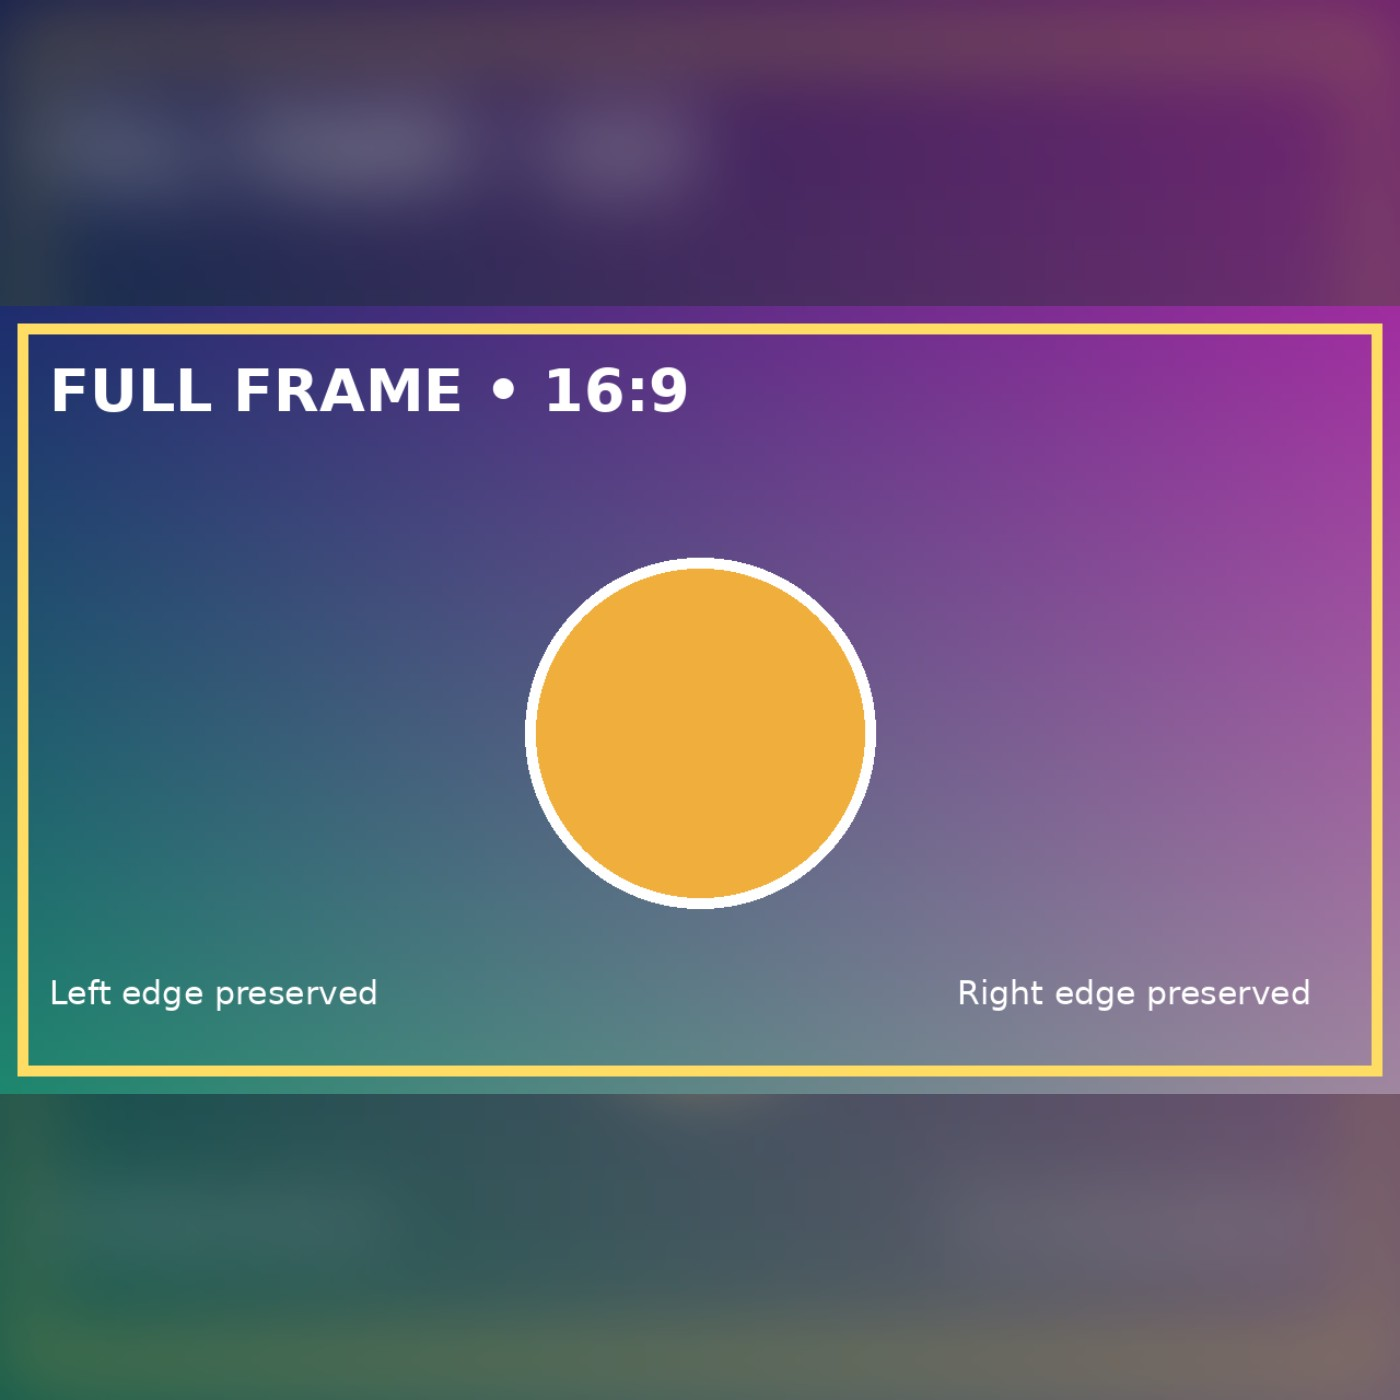
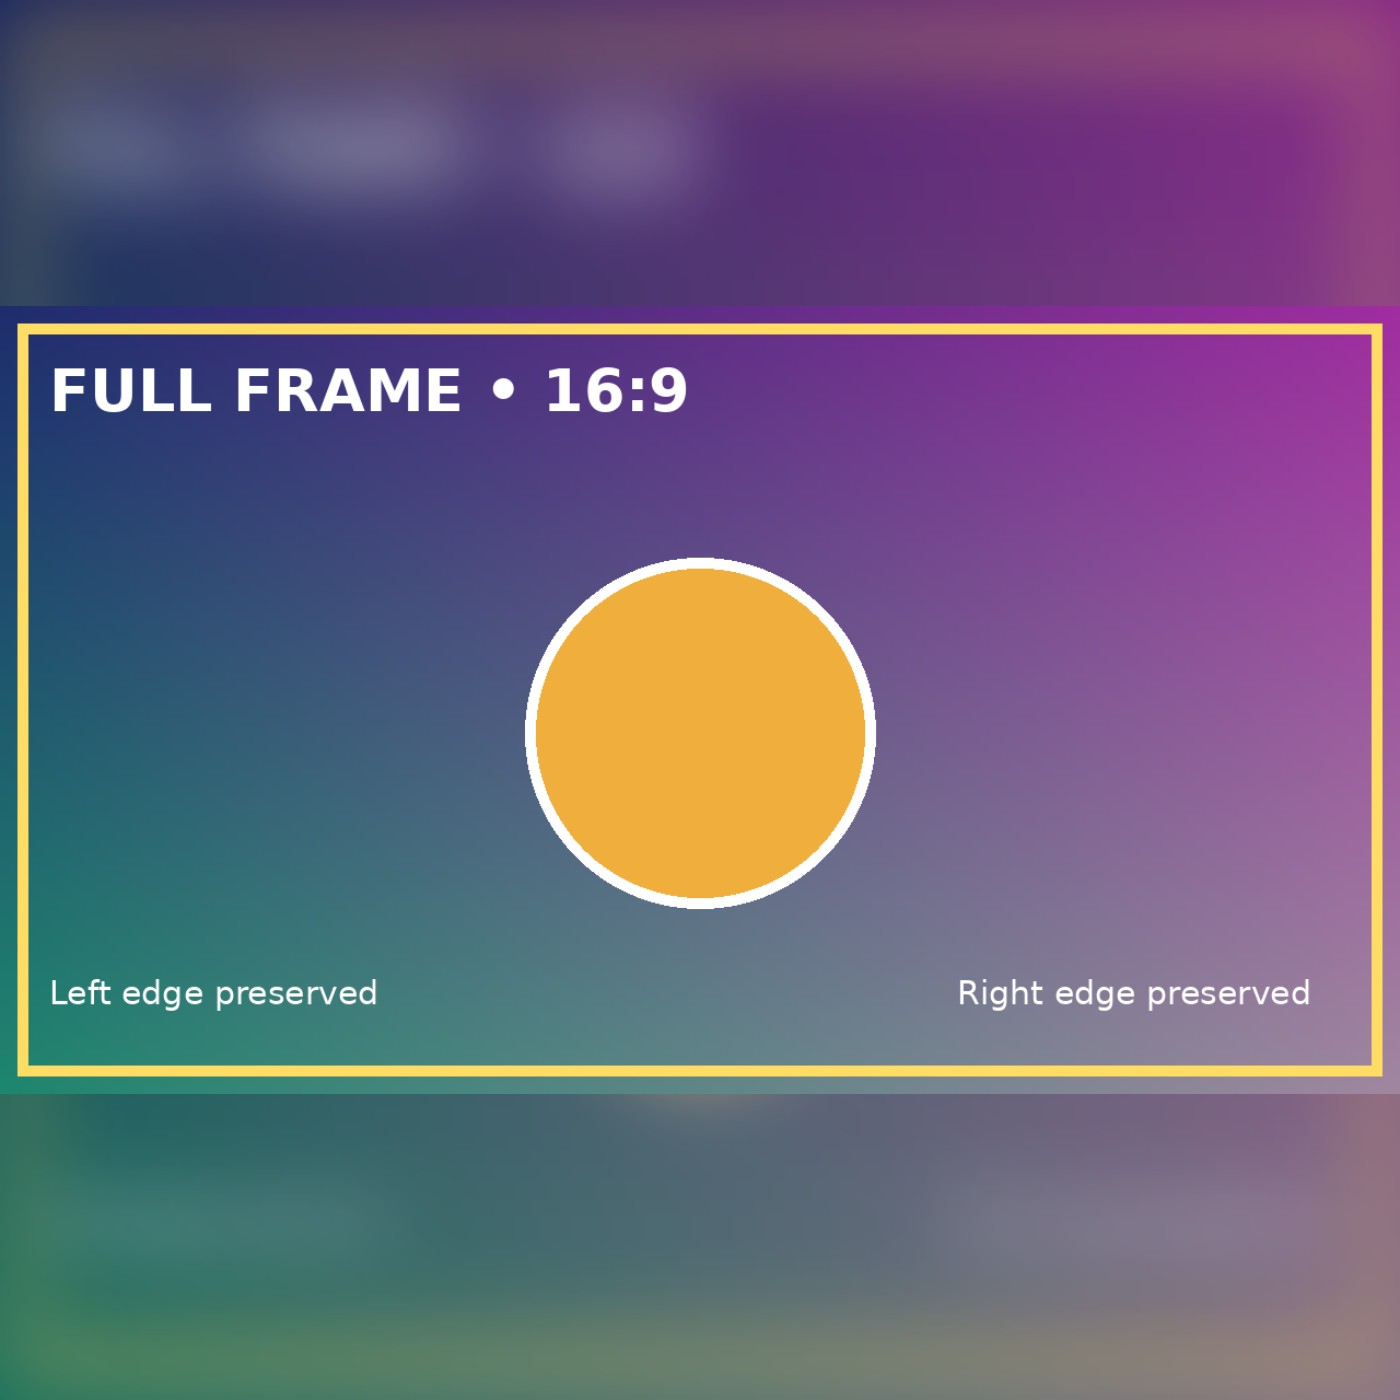
Reduce artwork dimming and prepare beta release
Use a 15% background overlay and a new artwork cache version. Publish prerelease archives and versioned fork images without replacing stable latest.

diff --git a/pkg/artwork/artwork_test.go b/pkg/artwork/artwork_test.go
@@ -90,7 +90,7 @@ func TestTransparentInputBecomesOpaqueJPEG(t *testing.T) {
 	require.NoError(t, err)
 	assert.Equal(t, "jpeg", format)
 	r, g, b, a := img.At(700, 700).RGBA()
-	assert.InDelta(t, 173*257, r, 1000)
+	assert.InDelta(t, 182*257, r, 1000)
 	assert.Less(t, g, uint32(1000))
 	assert.Less(t, b, uint32(1000))
 	assert.Equal(t, uint32(65535), a)
@@ -189,9 +189,9 @@ func TestSquareBlurredBackgroundHasNoBlackBorder(t *testing.T) {
 	require.NoError(t, err)
 	for _, p := range []image.Point{{X: 0, Y: 0}, {X: 1399, Y: 0}, {X: 0, Y: 1399}, {X: 1399, Y: 1399}} {
 		r, g, b, a := img.At(p.X, p.Y).RGBA()
-		assert.InDelta(t, 140*257, r, 1000)
-		assert.InDelta(t, 70*257, g, 1000)
-		assert.InDelta(t, 35*257, b, 1000)
+		assert.InDelta(t, 170*257, r, 1000)
+		assert.InDelta(t, 85*257, g, 1000)
+		assert.InDelta(t, 43*257, b, 1000)
 		assert.Equal(t, uint32(65535), a)
 	}
 }
@@ -215,9 +215,9 @@ func TestBackgroundDarkeningLeavesForegroundUnchanged(t *testing.T) {
 	for _, p := range []image.Point{{X: 100, Y: 100}, {X: 700, Y: 1300}} {
 		r0, g0, b0, _ := a.At(p.X, p.Y).RGBA()
 		r1, g1, b1, alpha := b.At(p.X, p.Y).RGBA()
-		assert.InDelta(t, float64(r0)*0.7, r1, 1000)
-		assert.InDelta(t, float64(g0)*0.7, g1, 1000)
-		assert.InDelta(t, float64(b0)*0.7, b1, 1000)
+		assert.InDelta(t, float64(r0)*0.85, r1, 1000)
+		assert.InDelta(t, float64(g0)*0.85, g1, 1000)
+		assert.InDelta(t, float64(b0)*0.85, b1, 1000)
 		assert.Equal(t, uint32(65535), alpha)
 	}
 	for _, p := range []image.Point{{X: 100, Y: 400}, {X: 700, Y: 700}, {X: 1300, Y: 1000}} {

diff --git a/pkg/artwork/artwork.go b/pkg/artwork/artwork.go
@@ -104,7 +104,7 @@ func (g *Generator) fetch(ctx context.Context, source string) ([]byte, error) {
 }
 
 func square(data []byte) ([]byte, error) {
-	return renderSquare(data, 0.3)
+	return renderSquare(data, 0.15)
 }
 
 // renderSquare exposes the background-only shade to package tests and deterministic previews.
@@ -131,7 +131,7 @@ func renderSquare(data []byte, backgroundDarkening float64) ([]byte, error) {
 	draw.Draw(background, background.Bounds(), image.Black, image.Point{}, draw.Src)
 	draw.Draw(background, background.Bounds(), resize(src, 280, 280), image.Point{}, draw.Over)
 	canvas := resize(gaussian(background, 8), Size, Size)
-	// Composite a 30% black overlay on the background before adding the clear foreground.
+	// Composite a 15% black overlay on the background before adding the clear foreground.
 	for i := 0; i < len(canvas.Pix); i += 4 {
 		for c := 0; c < 3; c++ {
 			canvas.Pix[i+c] = uint8(math.Round(float64(canvas.Pix[i+c]) * (1 - backgroundDarkening)))

diff --git a/services/update/artwork.go b/services/update/artwork.go
@@ -20,7 +20,7 @@ import (
 
 // Hash both identifiers so neither can introduce path components, URL escapes or collisions.
 func episodeArtworkPath(feedID, episodeID string) string {
-	return fmt.Sprintf("artwork/square-blur-dark30-v1/%x/%x.jpg", sha256.Sum256([]byte(feedID)), sha256.Sum256([]byte(episodeID)))
+	return fmt.Sprintf("artwork/square-blur-dark15-v1/%x/%x.jpg", sha256.Sum256([]byte(feedID)), sha256.Sum256([]byte(episodeID)))
 }
 
 func (u *Manager) lookupThumbnails(ctx context.Context, ids []string) (map[string][]string, error) {

diff --git a/services/update/artwork_test.go b/services/update/artwork_test.go
@@ -216,7 +216,7 @@ func TestArtworkFailureFallbackAndRetry(t *testing.T) {
 
 func TestArtworkPathSafety(t *testing.T) {
 	name := episodeArtworkPath("../../feed?#", "../episode.jpg?x=y#z")
-	assert.Regexp(t, `^artwork/square-blur-dark30-v1/[a-f0-9]{64}/[a-f0-9]{64}\.jpg$`, name)
+	assert.Regexp(t, `^artwork/square-blur-dark15-v1/[a-f0-9]{64}/[a-f0-9]{64}\.jpg$`, name)
 	assert.NotEqual(t, name, episodeArtworkPath("../../feed?#", "different"))
 	assert.NotEqual(t, name, episodeArtworkPath("different", "../episode.jpg?x=y#z"))
 }

diff --git a/README.md b/README.md
@@ -156,7 +156,7 @@ The full image is resized proportionally to fit a **1400 × 1400 opaque
 canvas**, centered without cropping or stretching, then saved as JPEG. Behind the clear
 foreground, the same source is stretched to fill the square and Gaussian blurred
 using a bounded 280 × 280 working image (effective sigma 40 canvas pixels).
-A 30% black overlay darkens only the background before the clear foreground is
+A 15% black overlay darkens only the background before the clear foreground is
 added; foreground brightness is unchanged. This is a design choice, not an Apple
 requirement. Clamped edges avoid dark blur borders. Landscape images show the blurred background
 above and below; portrait images show it at the sides. Transparent input is
@@ -169,7 +169,7 @@ fully visible in the clear foreground:
 ![Automatic episode artwork with blurred background](docs/img/episode-artwork-example.jpg)
 
 Images are saved through the configured storage under
-`artwork/square-blur-dark30-v1/<feed-hash>/<episode-hash>.jpg`. RSS URLs use the configured
+`artwork/square-blur-dark15-v1/<feed-hash>/<episode-hash>.jpg`. RSS URLs use the configured
 `server.hostname` base, just like media URLs. Local storage is served by Podsync's
 existing file server; with S3, your external public host must also serve these
 objects under that base URL and storage prefix. Successful images have a `.ready`
@@ -197,6 +197,26 @@ GUIDs, source video URLs, and enclosure URLs are unchanged by this setting.
 Podcast clients may cache artwork and take time to show an update. Apple Podcasts
 may use different artwork in different views; this setting does not guarantee
 that every view will display the episode image.
+
+### Beta downloads
+
+The fork's `v2.8.1-beta.1` release provides prebuilt archives for Linux (amd64,
+arm64, armv6 and i386), macOS (amd64 and arm64), and Windows (amd64, arm64 and
+386). Select your machine's OS and CPU from the release assets and check the
+archive against `checksums.txt`. Extract it and run `podsync --config config.toml`;
+you do not need Go. The binary still requires ffmpeg and yt-dlp; when the binary
+is named `yt-dlp`, set `[downloader] custom_binary = "/path/to/yt-dlp"`.
+
+The versioned container image includes its runtime dependencies and supports
+Linux amd64 and arm64:
+
+```bash
+docker pull ghcr.io/fqx/podsync-with-yt-dlp:v2.8.1-beta.1
+```
+
+Beta releases are marked prerelease and do not replace the stable GitHub release
+or the Docker `latest` tag. Release binaries are published before the container
+build; check the Release workflow for container completion if it is still running.
 
 ## 🚀 How to run
 

diff --git a/CLAUDE.md b/CLAUDE.md
@@ -190,10 +190,10 @@ of 50 and orders actual URLs by resolution. `pkg/artwork` bounds HTTP requests,
 redirect destinations, bytes and decoded pixels, then proportionally fits the full
 foreground without cropping or stretching over a stretched, Gaussian-blurred
 copy of the source. Blur uses a 280×280 working image with clamped edges to avoid
-black borders. A 30% black overlay shades only the background before the unchanged
+black borders. A 15% black overlay shades only the background before the unchanged
 foreground is composited. Fixed URL mode never runs automatic work.
 Cached `.jpg` plus `.ready` completion markers live under
-`artwork/square-blur-dark30-v1/<feed-hash>/<episode-hash>.jpg` in existing storage; RSS uses the
+`artwork/square-blur-dark15-v1/<feed-hash>/<episode-hash>.jpg` in existing storage; RSS uses the
 same hostname base as media. S3 needs external public serving, as for media.
 Failures warn and fall back without failing RSS; original database metadata remains
 unchanged. Cache persists until explicitly removed, even after disabling the mode
@@ -512,3 +512,13 @@ This project uses golangci-lint with strict formatting rules configured in `.gol
 - youtube-dl wrapper: `pkg/ytdl/ytdl.go`
 - Hooks: `pkg/feed/hooks.go`
 - API key rotation: `pkg/feed/key.go`
+
+## Fork beta releases
+
+Tag this fork with `v2.8.1-beta.1` to trigger `.github/workflows/release.yml`.
+It tests first, publishes the existing supported OS/CPU archive matrix through
+GoReleaser v2.14.0, then builds Linux amd64/arm64 containers. Windows ARM (32-bit)
+is excluded because Go no longer supports that target. Beta tags never update
+the container `latest` tag; GoReleaser uses `prerelease: auto` and
+`make_latest: false`, targeting only `fqx/podsync-with-yt-dlp`.
+The image build receives the exact tag and commit through build arguments.
